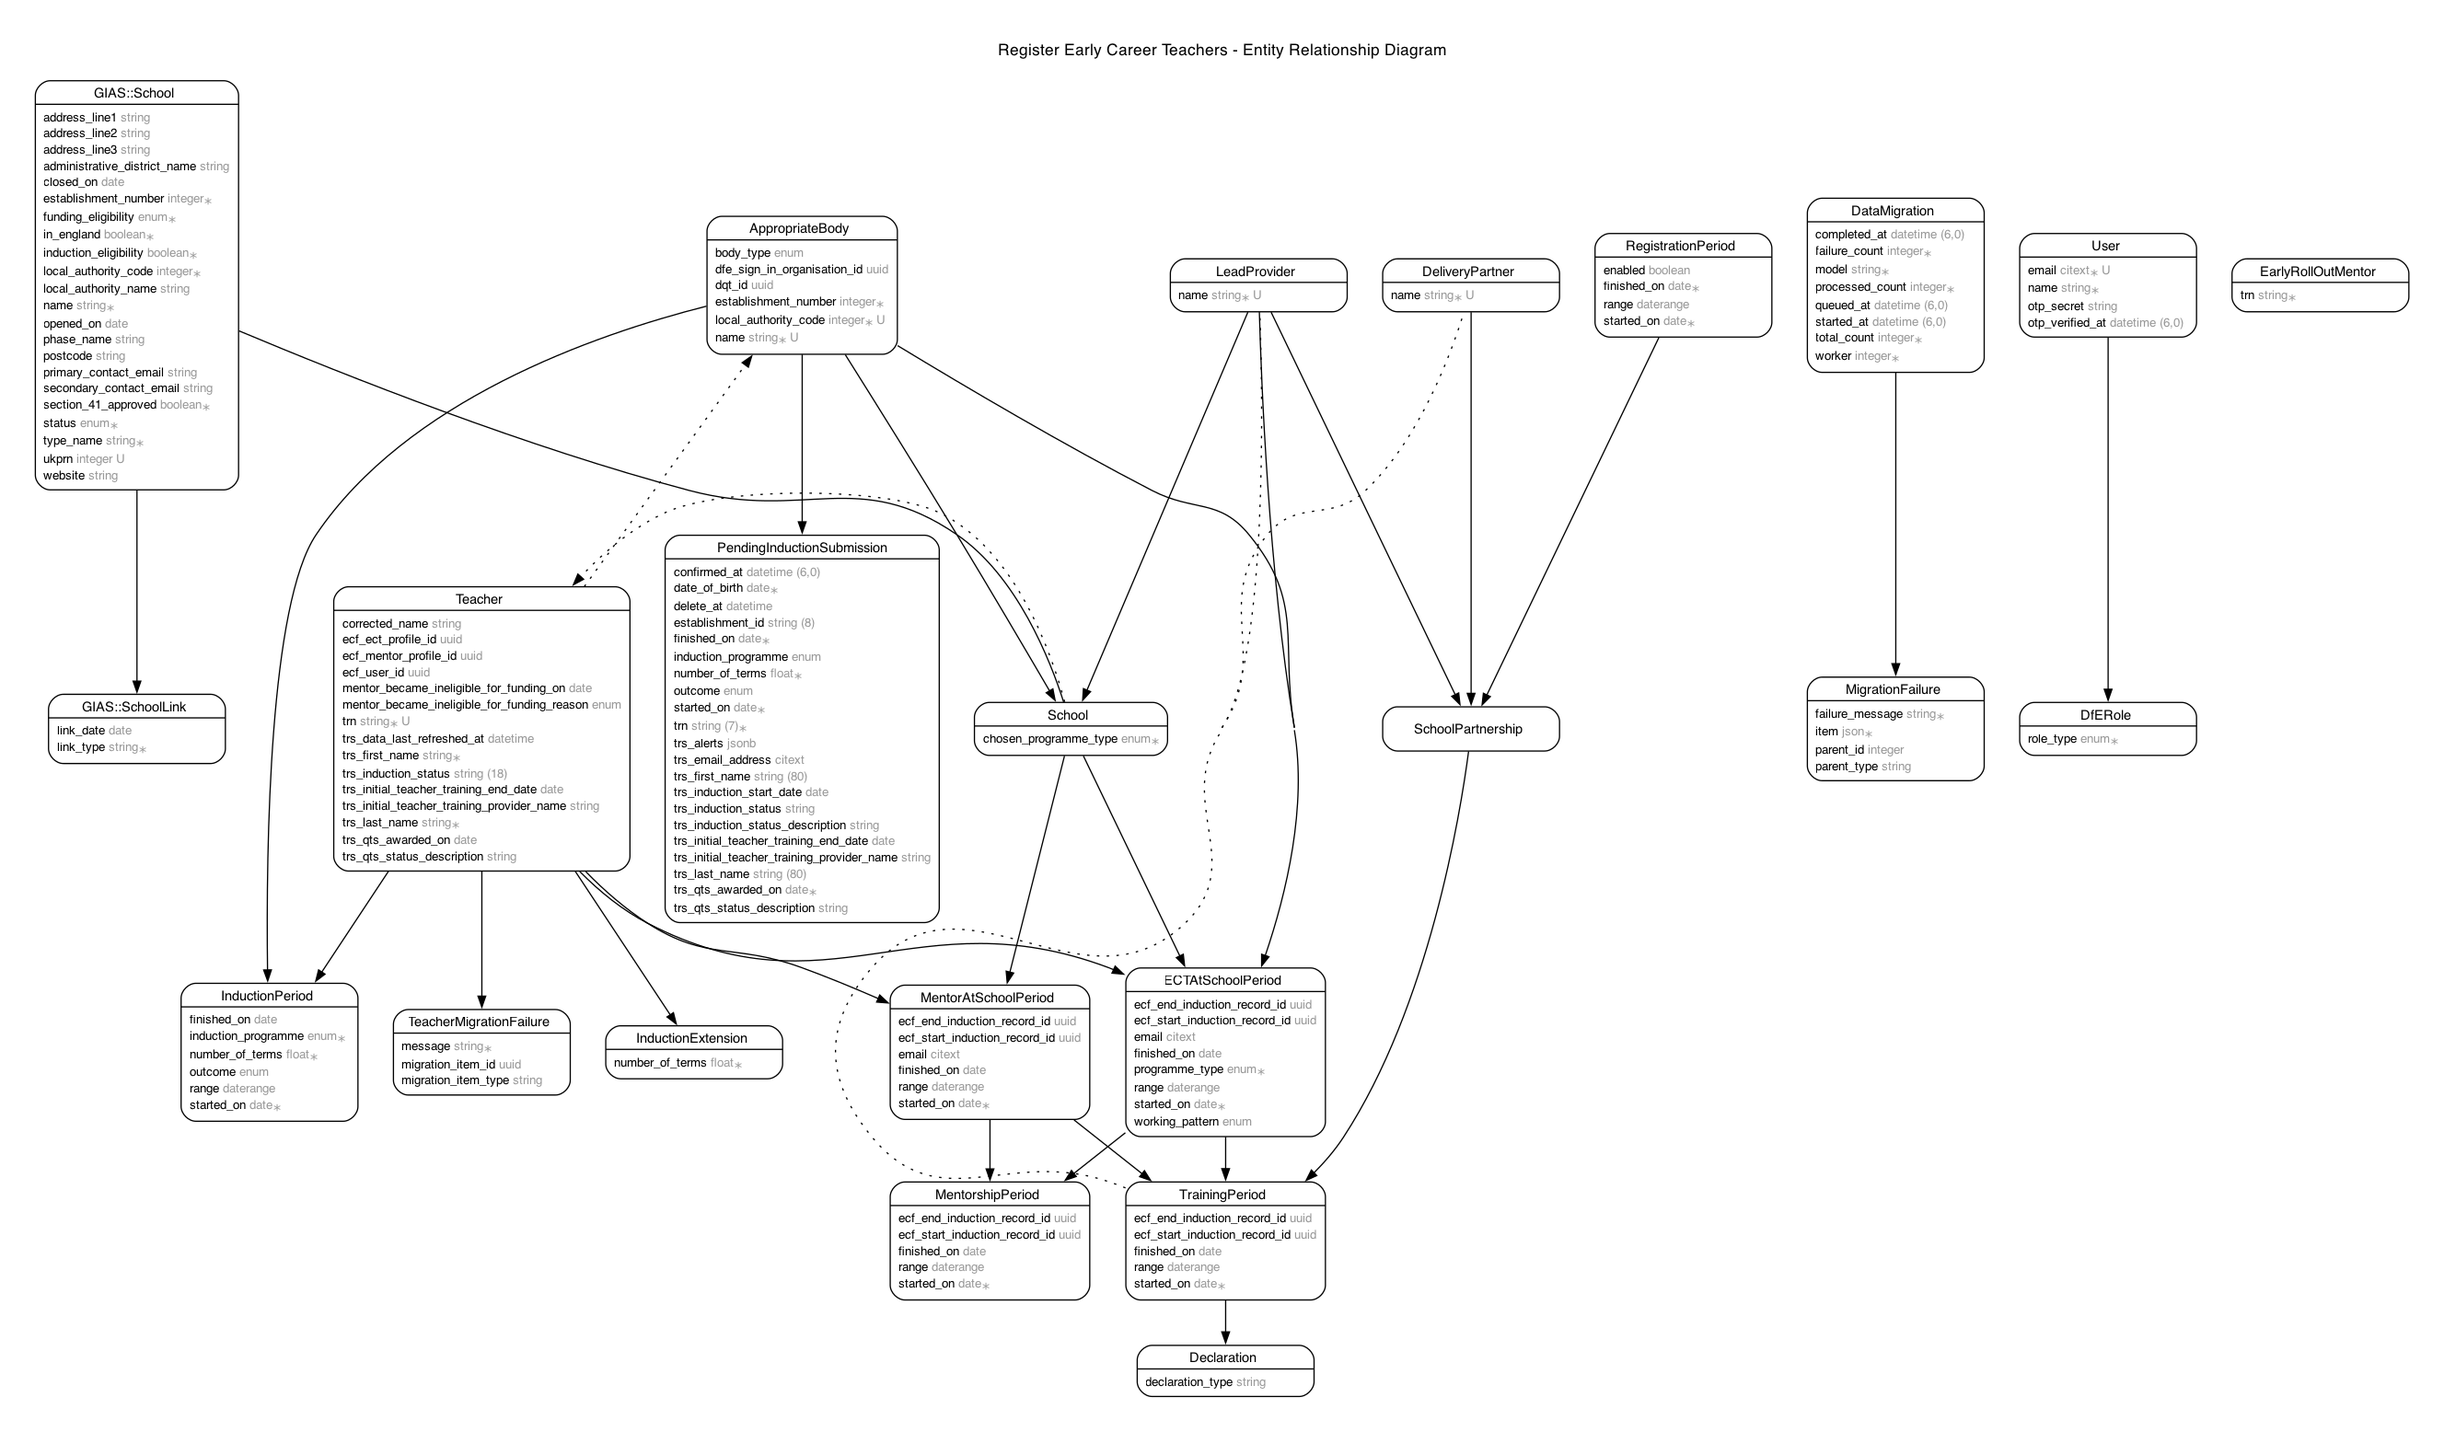
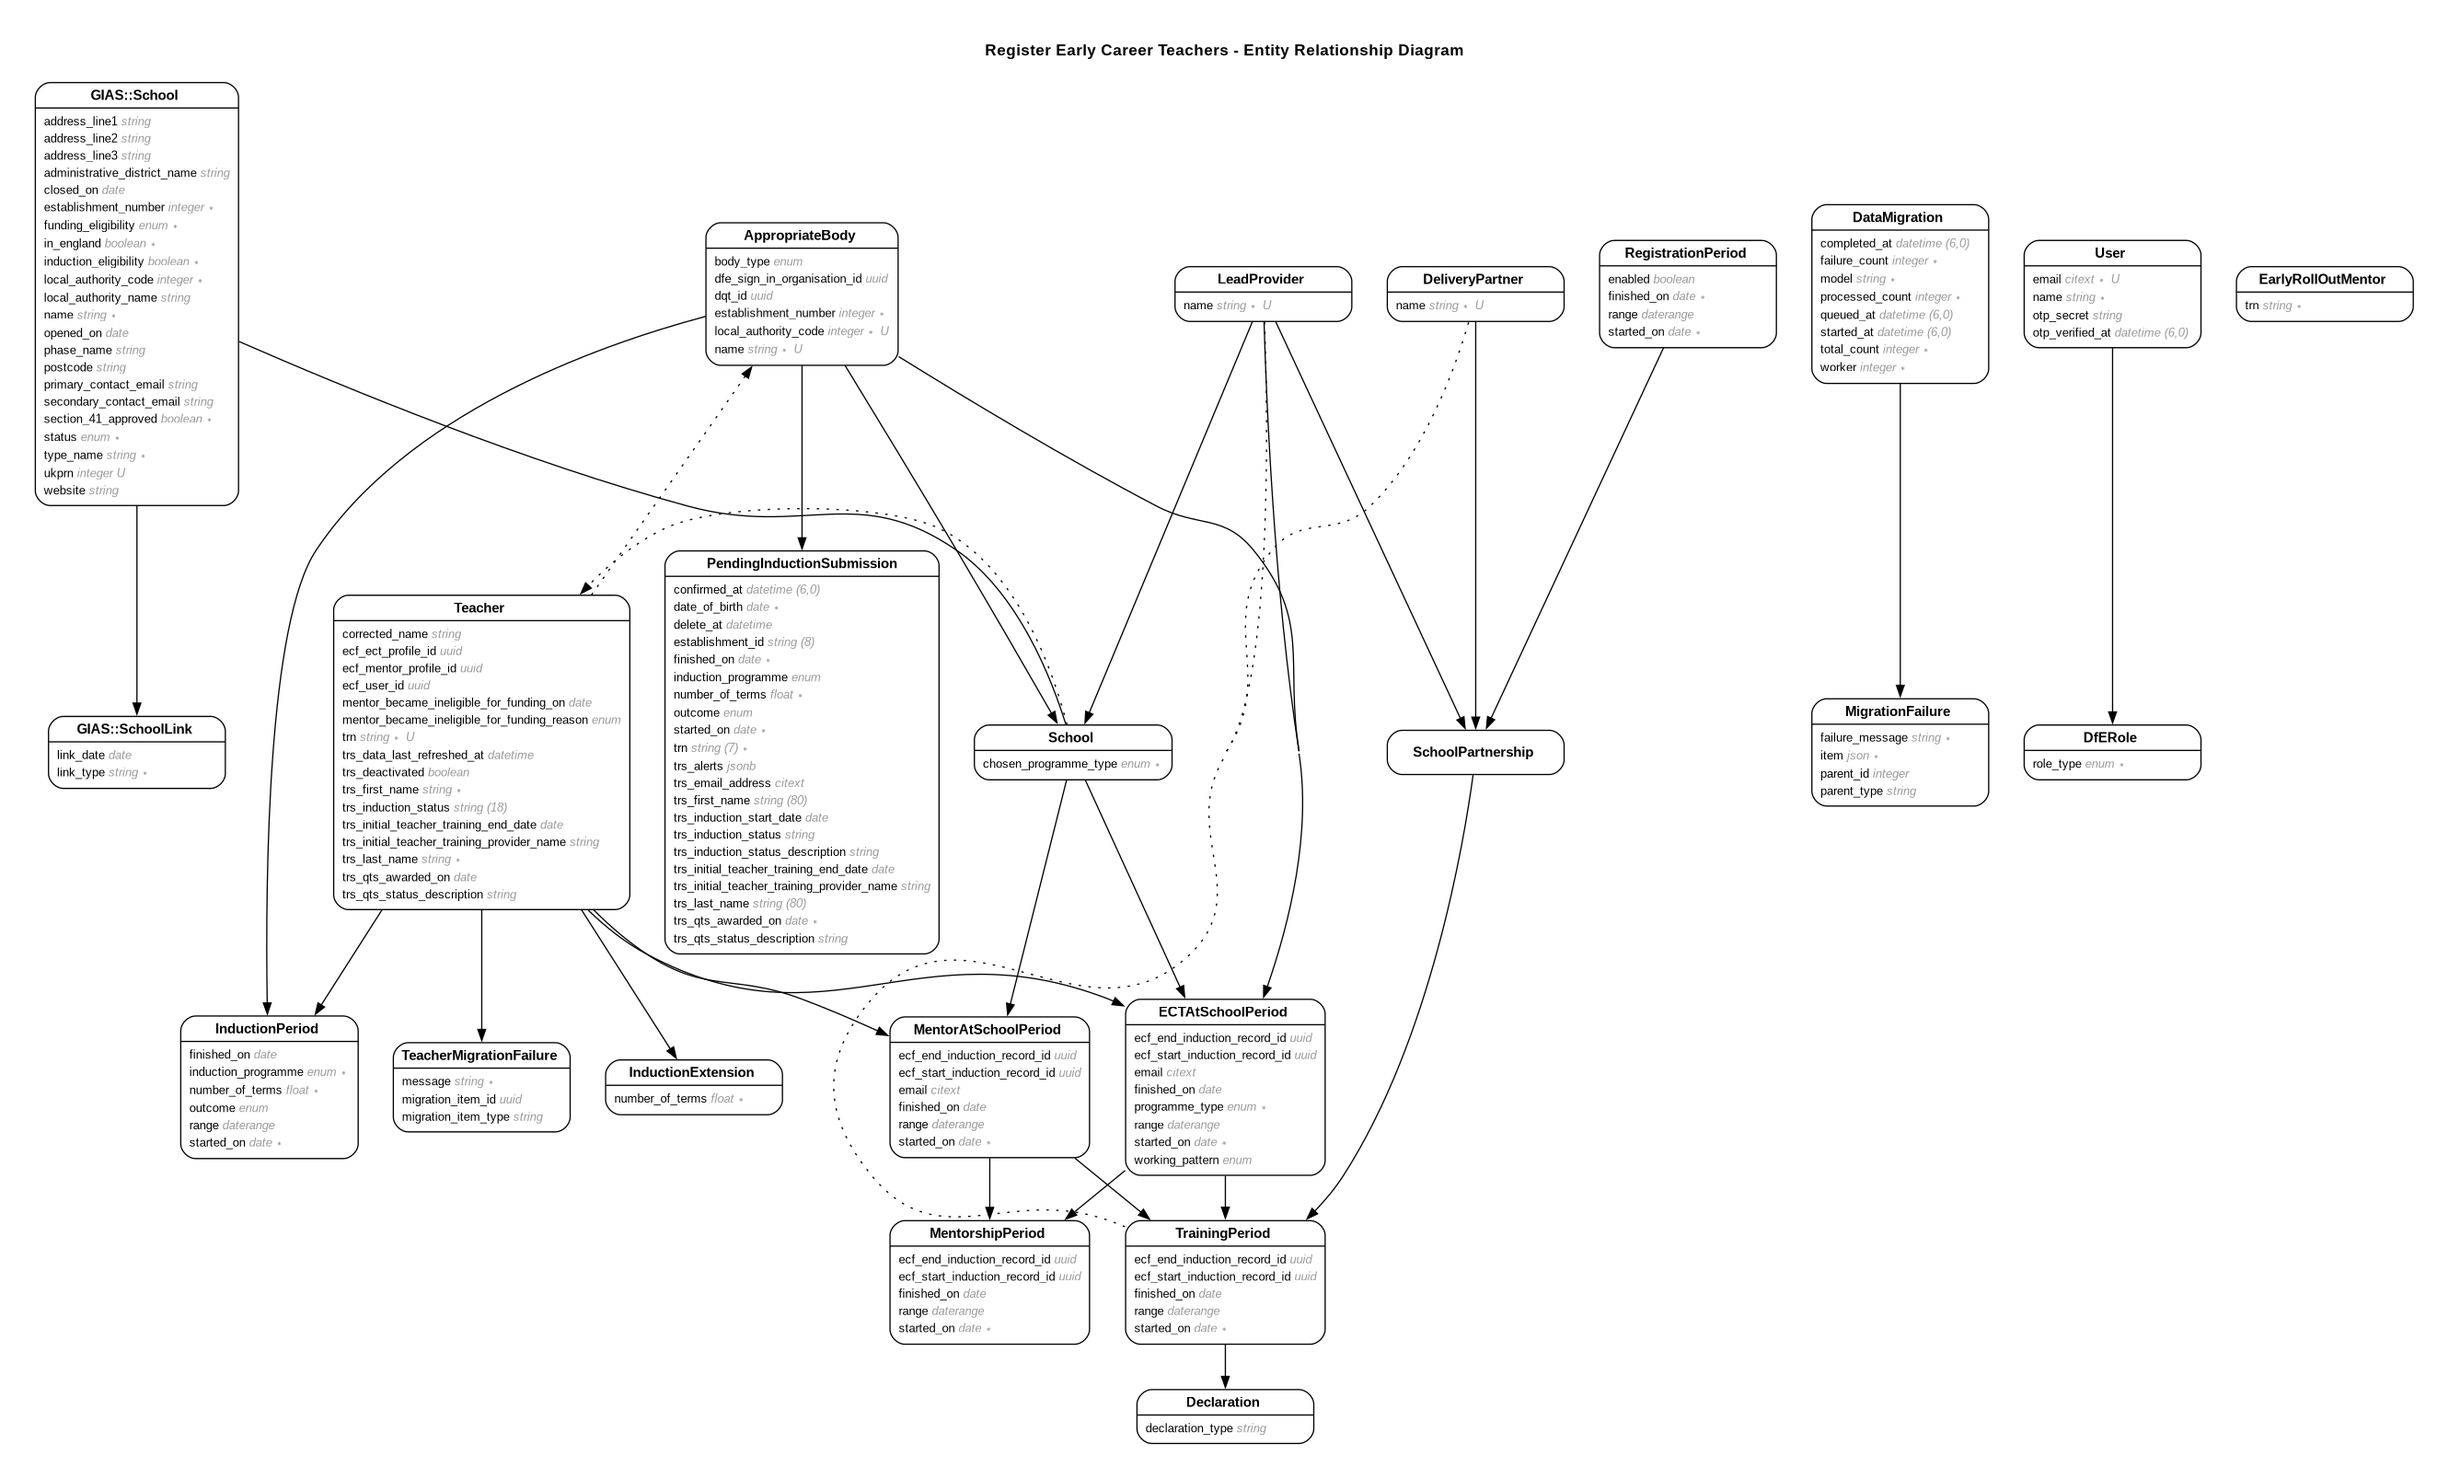
Add trs_deactivated column and some scopes
I went with a boolean here rather than a time/date because we don't know
(and can't find out) exactly when the teacher was deactivated - we only
find out when we refresh their details and get a 410.

diff --git a/db/schema.rb b/db/schema.rb
@@ -10,7 +10,7 @@
 #
 # It's strongly recommended that you check this file into your version control system.
 
-ActiveRecord::Schema[8.0].define(version: 2025_04_28_121350) do
+ActiveRecord::Schema[8.0].define(version: 2025_05_02_131734) do
   # These are extensions that must be enabled in order to support this database
   enable_extension "citext"
   enable_extension "pg_catalog.plpgsql"
@@ -536,6 +536,7 @@ ActiveRecord::Schema[8.0].define(version: 2025_04_28_121350) do
     t.datetime "trs_data_last_refreshed_at", precision: nil
     t.date "mentor_became_ineligible_for_funding_on"
     t.enum "mentor_became_ineligible_for_funding_reason", enum_type: "mentor_became_ineligible_for_funding_reason"
+    t.boolean "trs_deactivated", default: false
     t.index ["corrected_name"], name: "index_teachers_on_corrected_name"
     t.index ["search"], name: "index_teachers_on_search", using: :gin
     t.index ["trn"], name: "index_teachers_on_trn", unique: true

diff --git a/spec/models/teacher_spec.rb b/spec/models/teacher_spec.rb
@@ -97,5 +97,21 @@ describe Teacher do
         expect(Teacher.ordered_by_trs_data_last_refreshed_at_nulls_first.to_sql).to end_with(expected_clause)
       end
     end
+
+    describe '.deactivated_in_trs' do
+      it 'only includes records where trs_deactivated = TRUE' do
+        expected_clause = %("teachers"."trs_deactivated" = TRUE)
+
+        expect(Teacher.deactivated_in_trs.to_sql).to end_with(expected_clause)
+      end
+    end
+
+    describe '.active_in_trs' do
+      it 'only includes records where trs_deactivated = FALSE' do
+        expected_clause = %("teachers"."trs_deactivated" = FALSE)
+
+        expect(Teacher.active_in_trs.to_sql).to end_with(expected_clause)
+      end
+    end
   end
 end

diff --git a/app/models/teacher.rb b/app/models/teacher.rb
@@ -47,6 +47,9 @@ class Teacher < ApplicationRecord
     order(arel_table[:trs_data_last_refreshed_at].asc.nulls_first)
   }
 
+  scope :deactivated_in_trs, -> { where(trs_deactivated: true) }
+  scope :active_in_trs, -> { where(trs_deactivated: false) }
+
   # Instance methods
   def eligible_for_mentor_funding?
     mentor_became_ineligible_for_funding_on.blank? && mentor_became_ineligible_for_funding_reason.blank?

diff --git a/db/migrate/20250502131734_add_trs_deactivation_column_to_teachers.rb b/db/migrate/20250502131734_add_trs_deactivation_column_to_teachers.rb
@@ -1,0 +1,5 @@
+class AddTRSDeactivationColumnToTeachers < ActiveRecord::Migration[8.0]
+  def change
+    add_column :teachers, :trs_deactivated, :boolean, null: true, default: false
+  end
+end
